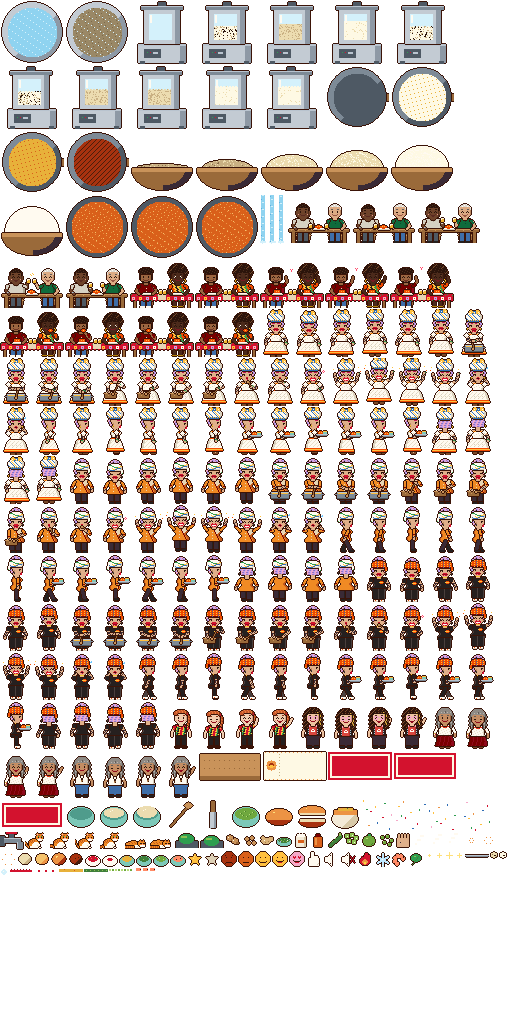
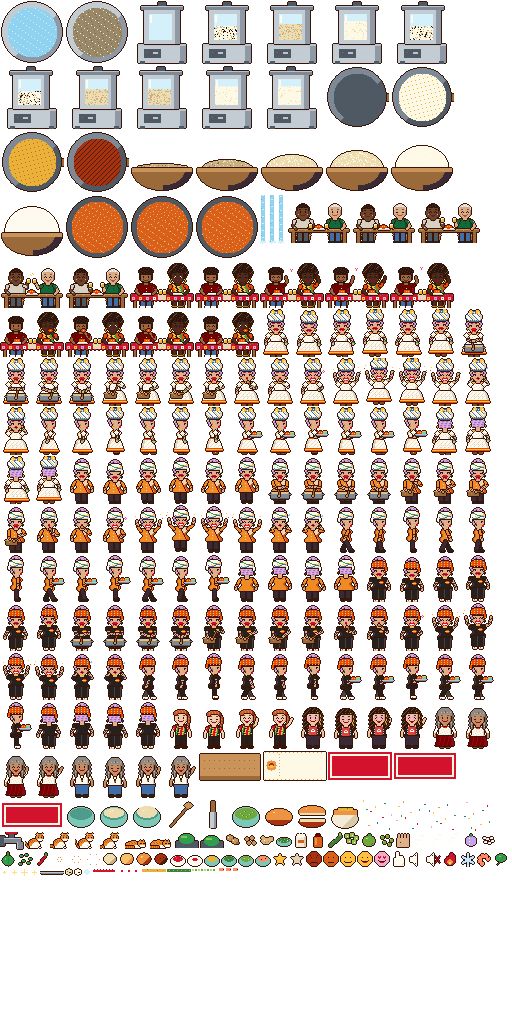
feat(acarabet): 10 etapas e 30 estrelas (temperos e pimenta), colher pra baixo, caruru sem farinha, nomes dos ingredientes, fritura mais fácil e Pôr do Sol dormindo visível

Changed region(s): [[0.0, 0.8125, 1.0, 0.875]]

diff --git a/src/jogo/cenas/etapas1.ts b/src/jogo/cenas/etapas1.ts
@@ -200,9 +200,118 @@ export class Triturar extends Etapa {
   }
 }
 
+// ─── 4. Temperos: picar cebola e pimentão, e fazer a pimenta ────────────────
+const PICAR = [
+  { nome: 'cebola', rotulo: 'CEBOLA' },
+  { nome: 'pimentao', rotulo: 'PIMENTÃO' },
+];
+
+export class Temperos extends Etapa {
+  constructor() {
+    super('Temperos');
+  }
+
+  protected readonly id = 'temperos';
+  protected tempoTotal = 30000;
+  private atual = 0;
+  private cortes = 0;
+  private pimentas = 0;
+  private fase: 'picar' | 'pimenta' = 'picar';
+  private item!: Phaser.GameObjects.Image;
+  private faca!: Phaser.GameObjects.Image;
+  private pote!: Phaser.GameObjects.Image;
+  private legenda!: Phaser.GameObjects.BitmapText;
+  private readonly T = { x: CENTRO_X, y: 186 };
+  private readonly CORTES = 4;
+
+  protected montar() {
+    this.atual = this.cortes = this.pimentas = 0;
+    this.fase = 'picar';
+    this.add.image(this.T.x, this.T.y, 'atlas', 'tabua_0').setScale(2);
+    this.add.image(36, 286, 'atlas', 'tigela_0_0').setScale(1.6);
+    this.add.image(150, 300, 'atlas', 'ing_dende_0').setScale(1.5);
+    this.pote = this.add.image(122, 286, 'atlas', 'pote_pimenta_pouca_0').setScale(2.5);
+    this.item = this.add.image(this.T.x, this.T.y, 'atlas', 'cebola_0').setScale(3);
+    // qualquer toque na tábua é uma facada (toquinhos rápidos no celular não se perdem)
+    this.input.on('pointerdown', (p: Phaser.Input.Pointer) => {
+      if (Math.abs(p.x - this.T.x) < 66 && Math.abs(p.y - this.T.y) < 40 && this.item.visible) this.pica();
+    });
+    this.faca = this.add.image(this.T.x + 16, this.T.y - 44, 'atlas', 'faca_0').setScale(2).setDepth(30).setVisible(false);
+    this.legenda = texto(this, CENTRO_X, 224, 'CEBOLA').setDepth(20);
+  }
+
+  private pica() {
+    if (!this.rodando || this.fase !== 'picar') return;
+    this.cortes++;
+    tocar('corte');
+    this.faca.setVisible(true).setPosition(this.item.x + 10, this.T.y - 44);
+    this.tweens.add({ targets: this.faca, y: this.T.y - 28, duration: 60, yoyo: true });
+    this.tweens.add({ targets: this.item, scale: 3 - this.cortes * 0.35, duration: 60 });
+    if (this.cortes < this.CORTES) return;
+    // picou: vai pra tigela
+    const { nome } = PICAR[this.atual];
+    const pedaco = this.add.image(this.item.x, this.item.y, 'atlas', `${nome}_picada_0`.replace('pimentao_picada', 'pimentao_picado')).setScale(2.5);
+    this.item.setVisible(false);
+    tocar('acerto');
+    this.tweens.add({ targets: pedaco, x: 36, y: 284, scale: 1, duration: 320, onComplete: () => pedaco.destroy() });
+    this.atual++;
+    this.cortes = 0;
+    this.time.delayedCall(360, () => {
+      this.faca.setVisible(false);
+      if (this.atual < PICAR.length) {
+        this.item.setFrame(`${PICAR[this.atual].nome}_0`).setScale(3).setVisible(true);
+        this.legenda.setText(PICAR[this.atual].rotulo);
+      } else {
+        this.comecaPimenta();
+      }
+    });
+  }
+
+  private comecaPimenta() {
+    this.fase = 'pimenta';
+    this.legenda.setText('PIMENTA: JOGUE NO DENDÊ');
+    const lugares = [[46, 170], [78, 196], [104, 168], [132, 198], [92, 182]];
+    lugares.forEach(([x, y], i) => {
+      const p = this.add.image(x, y, 'atlas', 'malagueta_0').setScale(0).setAngle(Phaser.Math.Between(-30, 30)).setInteractive({ useHandCursor: true });
+      this.tweens.add({ targets: p, scale: 2, duration: 180, delay: i * 70 });
+      p.on('pointerdown', () => {
+        if (!this.rodando) return;
+        p.disableInteractive();
+        tocar('pop');
+        this.tweens.add({
+          targets: p, x: this.pote.x, y: this.pote.y - 4, scale: 0.8, duration: 260,
+          onComplete: () => {
+            p.destroy();
+            this.pimentas++;
+            if (this.pimentas === 3) this.pote.setFrame('pote_pimenta_0');
+            if (this.pimentas === lugares.length) {
+              flutua(this, this.pote.x - 20, this.pote.y - 30, 'PIMENTA PRONTA!');
+              this.terminar(this.segundos() <= 13 ? 3 : this.segundos() <= 20 ? 2 : 1);
+            }
+          },
+        });
+      });
+    });
+  }
+
+  protected tempoEsgotado() {
+    this.terminar(this.fase === 'pimenta' ? 2 : 1);
+  }
+
+  protected demonstrar(mao: Phaser.GameObjects.Image) {
+    this.maoEntre(mao, [[this.T.x, this.T.y + 6], [this.T.x, this.T.y]], 200, true);
+  }
+}
+
 // ─── 4. Vatapá (ordem dos ingredientes + mexer sem grudar) ────────────────────
 /** Castanha de caju, amendoim, gengibre, temperos naturais triturados, farinha de trigo e um pouco de dendê. */
 export const ORDEM_VATAPA = ['castanha', 'amendoim', 'gengibre', 'temperos', 'farinha', 'dende'];
+/** O caruru leva os mesmos ingredientes do vatapá, menos a farinha. */
+const INGREDIENTES_CARURU = ORDEM_VATAPA.filter((n) => n !== 'farinha');
+export const NOME_INGREDIENTE: Record<string, string> = {
+  castanha: 'CASTANHA DE CAJU', amendoim: 'AMENDOIM', gengibre: 'GENGIBRE',
+  temperos: 'TEMPEROS NATURAIS', farinha: 'FARINHA DE TRIGO', dende: 'DENDÊ',
+};
 
 export class Vatapa extends Etapa {
   constructor() {
@@ -222,6 +331,7 @@ export class Vatapa extends Etapa {
   private medidor!: Phaser.GameObjects.Graphics;
   private giro!: (p: Phaser.Input.Pointer) => number;
   private marcas: Phaser.GameObjects.Image[] = [];
+  private proximo!: Phaser.GameObjects.BitmapText;
   private readonly C = { x: CENTRO_X, y: 222 };
 
   protected montar() {
@@ -231,6 +341,7 @@ export class Vatapa extends Etapa {
     // receita (ordem) em cima da bancada
     texto(this, 6, 121, 'RECEITA:', { esquerda: true });
     this.marcas = ORDEM_VATAPA.map((n, i) => this.add.image(62 + i * 19, 126, 'atlas', `ing_${n}_0`));
+    this.proximo = texto(this, CENTRO_X, 136, `PRÓXIMO: ${NOME_INGREDIENTE[ORDEM_VATAPA[0]]}`).setDepth(20);
     const lugares = Phaser.Utils.Array.Shuffle([[16, 160], [164, 160], [16, 296], [164, 296], [56, 306], [124, 306]]);
     ORDEM_VATAPA.forEach((n, i) => {
       const [x, y] = lugares[i];
@@ -253,7 +364,10 @@ export class Vatapa extends Etapa {
     }
     s.disableInteractive();
     this.marcas[this.indice].setAlpha(0.35);
+    flutua(this, s.x < 40 ? 50 : s.x > 140 ? 130 : s.x, s.y - 20, NOME_INGREDIENTE[nome]);
     this.indice++;
+    const prox = ORDEM_VATAPA[this.indice];
+    this.proximo.setText(prox ? `PRÓXIMO: ${NOME_INGREDIENTE[prox]}` : 'AGORA MEXE!');
     tocar('pop');
     this.tweens.add({ targets: s, x: this.C.x, y: this.C.y, scale: 1, duration: 260, onComplete: () => s.destroy() });
     this.panela.setFrame('panela_ralo_0');
@@ -356,9 +470,9 @@ export class Caruru extends Etapa {
 
   /** Depois do quiabo: os mesmos ingredientes do vatapá, em qualquer ordem. */
   private ingredientes() {
-    flutua(this, CENTRO_X, 150, 'AGORA OS TEMPEROS!');
-    const lugares = [[22, 150], [158, 150], [22, 236], [62, 236], [22, 292], [66, 292]];
-    ORDEM_VATAPA.forEach((n, i) => {
+    flutua(this, CENTRO_X, 150, 'AGORA OS INGREDIENTES!');
+    const lugares = [[22, 150], [158, 150], [22, 236], [62, 236], [40, 292]];
+    INGREDIENTES_CARURU.forEach((n, i) => {
       const [x, y] = lugares[i];
       const s = this.add.image(x, y, 'atlas', `ing_${n}_0`).setScale(0).setInteractive({ useHandCursor: true }).setDepth(30);
       this.tweens.add({ targets: s, scale: 2, duration: 200, delay: i * 60 });
@@ -366,12 +480,13 @@ export class Caruru extends Etapa {
         if (!this.rodando) return;
         s.disableInteractive();
         tocar('pop');
+        flutua(this, Phaser.Math.Clamp(s.x, 50, 130), s.y - 18, NOME_INGREDIENTE[n]);
         this.tweens.add({
           targets: s, x: this.PANELA.x, y: this.PANELA.y, scale: 0.8, duration: 260,
           onComplete: () => {
             s.destroy();
             this.postos++;
-            if (this.postos === ORDEM_VATAPA.length) this.terminar(this.segundos() <= 16 ? 3 : this.segundos() <= 25 ? 2 : 1);
+            if (this.postos === INGREDIENTES_CARURU.length) this.terminar(this.segundos() <= 16 ? 3 : this.segundos() <= 25 ? 2 : 1);
           },
         });
       });

diff --git a/src/jogo/cenas/etapas2.ts b/src/jogo/cenas/etapas2.ts
@@ -27,7 +27,7 @@ export class Bater extends Etapa {
     this.fofura = 0;
     this.toques = [];
     this.bacia = this.add.image(CENTRO_X - 6, 252, 'atlas', 'bacia_massa_0_0').setScale(2).setOrigin(0.5, 0.75);
-    this.colher = this.add.image(CENTRO_X - 6, 212, 'atlas', 'colher_0').setScale(2).setOrigin(0.2, 0.8).setDepth(5);
+    this.colher = this.add.image(CENTRO_X - 42, 206, 'atlas', 'colher_0').setScale(2).setFlipY(true).setOrigin(0.2, 0.2).setDepth(5);
     this.barra = this.add.graphics();
     this.desenhaBarra();
     this.input.on('pointerdown', (p: Phaser.Input.Pointer) => {
@@ -37,7 +37,7 @@ export class Bater extends Etapa {
       tocar('pop');
       // a colher bate de um lado pro outro, e a massa dá uma sacudidinha
       this.lado = -this.lado;
-      this.tweens.add({ targets: this.colher, angle: this.lado * 28, y: 222, duration: 60, yoyo: true });
+      this.tweens.add({ targets: this.colher, angle: this.lado * 14, y: 216, duration: 60, yoyo: true });
       this.tweens.add({ targets: this.bacia, scaleY: 1.88, scaleX: 2.08, duration: 50, yoyo: true });
       const q = Math.min(QUADROS_MASSA - 1, Math.floor((this.fofura / 100) * QUADROS_MASSA));
       this.bacia.setFrame(`bacia_massa_${q}_0`);
@@ -77,7 +77,7 @@ export class Bater extends Etapa {
 type FaseBolinho = 'cru' | 'dourando' | 'ponto' | 'queimado';
 interface Bolinho { s: Phaser.GameObjects.Image; lado: 1 | 2; t: number; fase: FaseBolinho; brilho?: Phaser.GameObjects.Sprite; saindo?: boolean }
 
-const TEMPOS = { dourando: 2600, ponto: 4300, queimado: 6400 };
+const TEMPOS = { dourando: 2400, ponto: 3800, queimado: 8800 }; // janela larga: dá pra cuidar dos 4 de uma vez
 
 export class Fritar extends Etapa {
   constructor() {

diff --git a/src/jogo/estado.ts b/src/jogo/estado.ts
@@ -19,8 +19,9 @@ export const ETAPAS: InfoEtapa[] = [
   { id: 'lavar', cena: 'Lavar', nome: 'LAVAR O FEIJÃO', instrucao: 'O FEIJÃO-FRADINHO JÁ VEM QUEBRADO. ESFREGUE NA ÁGUA PRA DEIXAR ELE LIMPINHO!' },
   { id: 'triturar', cena: 'Triturar', nome: 'TRITURAR', instrucao: 'TOQUE NO BOTÃO VERDE PRA LIGAR O MULTIPROCESSADOR. TOQUE DE NOVO PRA PARAR QUANDO O PONTEIRO ESTIVER NA FAIXA VERDE!' },
   { id: 'bater', cena: 'Bater', nome: 'BATER A MASSA', instrucao: 'TOQUE RAPIDINHO NA TELA PRA BATER. A MASSA VAI CRESCENDO ATÉ FICAR BRANQUINHA E LEVINHA!' },
+  { id: 'temperos', cena: 'Temperos', nome: 'TEMPEROS', instrucao: 'TOQUE NA CEBOLA E NO PIMENTÃO PRA PICAR. DEPOIS JOGUE AS PIMENTAS NO DENDÊ PRA FAZER A PIMENTA!' },
   { id: 'vatapa', cena: 'Vatapa', nome: 'VATAPÁ', instrucao: 'TOQUE NOS INGREDIENTES NA ORDEM DA RECEITA. DEPOIS MEXA EM CÍRCULOS ATÉ DAR O PONTO.' },
-  { id: 'caruru', cena: 'Caruru', nome: 'CARURU', instrucao: 'ARRASTE O QUIABO PRA TÁBUA. DEPOIS TOQUE NOS INGREDIENTES DO VATAPÁ PRA IR PRA PANELA.' },
+  { id: 'caruru', cena: 'Caruru', nome: 'CARURU', instrucao: 'ARRASTE O QUIABO PRA TÁBUA. DEPOIS TOQUE NOS INGREDIENTES PRA IREM PRA PANELA.' },
   { id: 'salada', cena: 'Salada', nome: 'SALADA', instrucao: 'TOQUE PRA PICAR QUANDO A FACA ESTIVER EM CIMA DO TOMATE VERDE. CUIDADO COM O DEDO!' },
   { id: 'fritar', cena: 'Fritar', nome: 'FRITAR', instrucao: 'TOQUE NA MASSA PRA JOGAR OS 4 BOLINHOS NO DENDÊ (OU NO TACHO, UM POR UM). DOUROU E BRILHOU? TOQUE PRA VIRAR. DOUROU DE NOVO? TOQUE PRA TIRAR.' },
   { id: 'montar', cena: 'Montar', nome: 'MONTAR', instrucao: 'ARRASTE NA ORDEM: PIMENTA NO BOLINHO, VATAPÁ, CARURU, SALADA E CAMARÃO POR CIMA. OLHE O PEDIDO!' },

diff --git a/src/jogo/main.ts b/src/jogo/main.ts
@@ -6,7 +6,7 @@ import Phaser from 'phaser';
 import { Carregando } from './cenas/Carregando';
 import { Titulo } from './cenas/Titulo';
 import { Pedido } from './cenas/Pedido';
-import { Lavar, Triturar, Vatapa, Caruru, Salada } from './cenas/etapas1';
+import { Lavar, Triturar, Temperos, Vatapa, Caruru, Salada } from './cenas/etapas1';
 import { Bater, Fritar, Montar } from './cenas/etapas2';
 import { Servir } from './cenas/Servir';
 import { Premio, Cupom } from './cenas/Premio';
@@ -47,7 +47,7 @@ export function iniciarJogo(raiz: HTMLElement, cfg: Partial<Config> = {}) {
     input: { activePointers: 1 },
     render: { preserveDrawingBuffer: computador },
     scale: { mode: Phaser.Scale.NONE, zoom: zoom() },
-    scene: [Carregando, Titulo, Pedido, Lavar, Triturar, Bater, Vatapa, Caruru, Salada, Fritar, Montar, Servir, Premio, Cupom],
+    scene: [Carregando, Titulo, Pedido, Lavar, Triturar, Bater, Temperos, Vatapa, Caruru, Salada, Fritar, Montar, Servir, Premio, Cupom],
   });
 
   let nitido: HTMLCanvasElement | null = null;

diff --git a/src/jogo/salao.ts b/src/jogo/salao.ts
@@ -43,7 +43,9 @@ export function montaSalao(cena: Phaser.Scene, { easterEggs = true } = {}): Sala
   npc(pos.gemea_mae.x, pos.gemea_mae.y, 'npc_gemea_mae_parada', 'npc_gemea_mae_acenando');
   npc(pos.gemea_tia.x, pos.gemea_tia.y, 'npc_gemea_tia_parada', 'npc_gemea_tia_acenando');
   npc(pos.valentina.x, pos.valentina.y, 'npc_valentina_parada', 'npc_valentina_acenando');
-  const g = Phaser.Utils.Array.GetRandom(pos.por_do_sol);
+  // sorteia o cantinho do Pôr do Sol (em desenvolvimento dá pra forçar: ?gato=dormindo ou ?gato=sentado)
+  const forcar = import.meta.env.DEV ? new URLSearchParams(location.search).get('gato') : null;
+  const g = pos.por_do_sol.find((p) => forcar && p.sprite === `gato_${forcar}`) ?? Phaser.Utils.Array.GetRandom(pos.por_do_sol);
   npc(g.x, g.y, g.sprite, g.sprite === 'gato_sentado' ? 'gato_sentado' : null, 17);
   const casal = cena.add.sprite(pos.casal.x, pos.casal.y, 'atlas').setOrigin(0, 0)
     .setDepth(profundidade(pos.casal.y)).play('cliente_casal_esperando');

diff --git a/tools/sprites/objetos.py b/tools/sprites/objetos.py
@@ -243,6 +243,41 @@ def tomate(cubos=False):
     return [faz(16, 16, [p])]
 
 
+def cebola(picada=False):
+    p = Parte()
+    if picada:
+        for (x, y) in ((4, 9), (8, 10), (11, 8), (6, 6), (10, 5), (3, 5)):
+            p.ret(x, y, x + 2, y + 1, 'massa_luz')
+            p.d(x, y, 'cabelo_lilas')
+    else:
+        p.elipse(8, 9, 5.5, 5, 'cabelo_lilas')
+        p.ret(7, 2, 8, 4, 'fita')
+        for y in range(6, 13, 3):
+            p.d(6, y, 'massa_luz')
+    return [faz(16, 16, [p])]
+
+
+def pimentao(picado=False):
+    p = Parte()
+    if picado:
+        for (x, y) in ((3, 4), (8, 3), (12, 7), (5, 9), (10, 11), (2, 12)):
+            p.ret(x, y, x + 2, y + 1, 'fita'); p.d(x, y, 'quiabo_luz')
+    else:
+        p.elipse(8, 9.5, 5.5, 5, 'fita')
+        p.linha(8, 5, 8, 14, 'quiabo', 1)  # gomos
+        p.d(5, 7, 'quiabo_luz'); p.d(5, 8, 'quiabo_luz')
+        p.ret(7, 1, 8, 4, 'quiabo')  # cabinho
+    return [faz(16, 16, [p])]
+
+
+def malagueta():
+    p = Parte()
+    p.linha(4, 12, 10, 5, 'batom', 2)
+    p.d(10, 4, 'batom'); p.d(5, 10, 'tomate_luz')
+    p.ret(11, 2, 12, 4, 'fita')
+    return [faz(16, 16, [p])]
+
+
 def mao():
     """Dedos da Bia segurando (na tábua), pra não cortar."""
     p = Parte()
@@ -623,6 +658,8 @@ ITENS = {
     'fumaca': fumaca,
     **{f'bacia_massa_{n}': (lambda n=n: bacia_massa(n)) for n in range(N_MASSA)},
     'torneira': torneira, 'jato_agua': jato_agua,
+    'cebola': lambda: cebola(False), 'cebola_picada': lambda: cebola(True),
+    'pimentao': lambda: pimentao(False), 'pimentao_picado': lambda: pimentao(True), 'malagueta': malagueta,
     'tacho': tacho, 'respingo': respingo,
     **{f'acaraje_{e}': (lambda e=e: acaraje_fritando(e)) for e in ('cru', 'dourando', 'ponto', 'queimado')},
     'acaraje_fechado': lambda: acaraje_lado('fechado'), 'acaraje_aberto': lambda: acaraje_lado('aberto'),

diff --git a/tools/sprites/cenario.py b/tools/sprites/cenario.py
@@ -349,7 +349,7 @@ POSICOES = {
     'valentina': {'x': 146, 'y': 150, 'sprite': 'npc_valentina'},
     'por_do_sol': [  # sempre perto da Valentina; sorteia um dos dois cantinhos por partida
         {'x': 150, 'y': 184, 'sprite': 'gato_sentado', 'onde': 'aos pés da Valentina'},
-        {'x': 142, 'y': 161, 'sprite': 'gato_dormindo', 'onde': 'no banquinho da salinha, atrás da Valentina'},
+        {'x': 152, 'y': 181, 'sprite': 'gato_dormindo', 'onde': 'dormindo aos pés da Valentina (na frente dela, pra aparecer)'},
     ],
     # Caminhos da Bia (posição do sprite 32×48). 'camada': atrás do balcão ou no salão (ordem pelo y).
     'pontos': {

diff --git a/docs/ACARABET-TECNICO.md b/docs/ACARABET-TECNICO.md
@@ -9,7 +9,7 @@
 ## 1. Resumo do jogo (do briefing de arte)
 
 - Jogo em **pixel art**, tela **em pé** (formato story), jogado com toque ou clique.
-- A Bia faz um acarajé do começo ao fim em **9 minijogos** curtos (20–40 s cada): lavar o feijão, triturar, bater a massa, vatapá, caruru, salada, **fritar**, **montar** e **servir** (processos definidos com a equipe em nov/2026, ver seção 10).
+- A Bia faz um acarajé do começo ao fim em **10 minijogos** curtos (20–40 s cada), até **30 estrelas**: lavar o feijão, triturar, bater a massa, temperos, vatapá, caruru, salada, **fritar**, **montar** e **servir** (processos definidos com a equipe em nov/2026, ver seção 10).
 - Cada etapa dá de 1 a 3 estrelas → enche o **medidor de satisfação** do cliente.
 - Não tem sorte: quem completa e satisfaz o cliente **sempre ganha** o cupom.
 - Final: bilhete de aposta de brincadeira ("chance de ganhar: 100%") + cupom + **imagem 1080 × 1920 para os Stories**.
@@ -36,7 +36,7 @@ Isso exige identificar o cliente → ver seção 5.
 | Renderização | **HTML5 Canvas 2D** | Funciona em todos os navegadores modernos; perfeito para pixel art. WebGL não é necessário. |
 | Motor | **Phaser 3** (recomendado) | Já resolve escala, toque/mouse, cenas, animação de sprites, áudio no iOS e carregamento. Carregado **só na página `/acarabet`**, sem pesar o resto do site. |
 | Alternativa | JavaScript puro + Canvas | Mais leve, mas exige refazer o que o Phaser já entrega (áudio no iOS, escala, input). Só vale se o jogo ficar bem menor que o previsto. |
-| Linguagem | TypeScript | Evita erros nos 9 minijogos e no fluxo do cupom. |
+| Linguagem | TypeScript | Evita erros nos 10 minijogos e no fluxo do cupom. |
 
 ### 3.2 Tela e pixel art
 - Mundo do jogo com **180 × 320 px**, ampliado sempre por **número inteiro** (×2, ×3, ×4, ×6…) para não borrar.
@@ -184,7 +184,7 @@ Com isso dá para ver em que etapa as pessoas desistem e quantos cupons viram vi
 | Página do jogo | `src/pages/acarabet/index.astro` | Apresentação, "como funciona" e **regulamento visível**. O jogo abre em tela cheia por cima da página (`/acarabet#jogar`); botão ✕ ou "voltar" do celular fecham. |
 | Chamada na Home | `src/components/ChamadaAcarabet.astro` | Faixa vinho com a Bia comemorando, antes de Eventos. Link "Acarabet" também no menu. |
 | Motor | Phaser **3.90.0** | Carregado só quando a pessoa toca em **Jogar** (import dinâmico): a página em si continua leve. |
-| Código do jogo | `src/jogo/` | `main.ts` (liga o Phaser), `estado.ts` (etapas, estrelas, satisfação, medição), `cenas/` (título, pedido, 8 minijogos de preparo, servir, prêmio e cupom), `cupom.ts` (formulário, compartilhar, plano C do Instagram), `som.ts`. |
+| Código do jogo | `src/jogo/` | `main.ts` (liga o Phaser), `estado.ts` (etapas, estrelas, satisfação, medição), `cenas/` (título, pedido, 9 minijogos de preparo, servir, prêmio e cupom), `cupom.ts` (formulário, compartilhar, plano C do Instagram), `som.ts`. |
 | Close dos preparos | `cenas/Etapa.ts` | Nas etapas de preparo a câmera chega perto: parede de chita de girassol, a **Bia ampliada 2× da cintura pra cima** reagindo (mexendo, batendo, comemorando, preocupada) e a bancada de madeira com os objetos. |
 | Arte | `tools/sprites/*.py` → `public/jogo/` | Tudo gerado por script: `atlas.png` + `atlas.json` (todas as animações e objetos numa imagem só, ~40 KB), fontes em pixel (`fonte_clara`, `fonte_escura`), cenário do salão e do close. Para refazer: `python3 tools/sprites/atlas.py` (e `cenario.py`, `fonte.py`). |
 | Escala sem borrar | `main.ts` | O fator de ampliação é **inteiro em pixels do aparelho** (ex.: ×1,5 em CSS num celular 2× = 3 pixels reais por pixel do jogo). Sobra de tela vira moldura listrada. Celular deitado mostra "vire o celular". **No computador** (sem tela de toque) o jogo ocupa a altura toda: o Phaser fica invisível no tamanho exato (pros cliques) e uma cópia nítida em N× é reduzida suavemente por cima, então os pixels não ficam de tamanhos diferentes. |
@@ -196,19 +196,20 @@ Com isso dá para ver em que etapa as pessoas desistem e quantos cupons viram vi
 
 **Regras de jogo implementadas**
 - Cada etapa dá 1 a 3 estrelas; refazer guarda sempre a melhor nota.
-- O casal fica satisfeito com **2/3 das estrelas** (18 de 27). Se não ficar, a Bia refaz as etapas mais fracas e serve de novo; na terceira rodada o casal aceita de qualquer jeito (ninguém sai sem cupom).
+- O casal fica satisfeito com **2/3 das estrelas** (20 de 30). Se não ficar, a Bia refaz as etapas mais fracas e serve de novo; na terceira rodada o casal aceita de qualquer jeito (ninguém sai sem cupom).
 - O pedido é sorteado a cada partida e aparece no balão do casal e na faixa da montagem: **com pimenta** (ícone de foguinho) ou **pouca pimenta** (ícone de friozinho), e **tradicional** (com camarão, ícone de camarão) ou **vegetariano** (sem camarão, ícone de folhinha).
 
 **Processos de cada etapa (definidos com a equipe)**
 1. **Lavar o feijão:** feijão-fradinho (branco com o olhinho preto), que já vem quebrado da loja; o processo é só lavar, com a torneira aberta caindo água na bacia.
 2. **Triturar:** no multiprocessador industrial, com um botão só. Três levas: um toque liga, e a pessoa tem que parar na hora certa (ponteiro na faixa verde).
 3. **Bater a massa:** toquinhos na tela simulam a batida; a massa vai crescendo na bacia até ficar bem branquinha e levinha.
-4. **Vatapá:** castanha de caju, amendoim, gengibre, temperos naturais triturados, farinha de trigo e um pouco de dendê, nessa ordem; depois mexer até dar o ponto.
-5. **Caruru:** cortar o quiabo e juntar os mesmos ingredientes do vatapá.
-6. **Salada:** só tomate verde picado.
-7. **Fritar** no dendê: um toque na massa joga os 4 bolinhos de uma vez no tacho (ou um por um, tocando no tacho); virar e tirar no ponto.
-8. **Montar, nesta ordem:** pimenta no bolinho, vatapá, caruru, salada e camarão por cima (sem camarão no vegetariano). Pimenta errada, camarão no vegetariano ou fora de ordem contam como erro.
-9. **Servir** na mesa do casal.
+4. **Temperos:** picar cebola e pimentão (toques na faca) e fazer a pimenta, jogando as pimentas no dendê.
+5. **Vatapá:** castanha de caju, amendoim, gengibre, temperos naturais triturados, farinha de trigo e um pouco de dendê, nessa ordem; depois mexer até dar o ponto. O nome de cada ingrediente aparece na tela ("PRÓXIMO: …" e ao tocar).
+6. **Caruru:** cortar o quiabo e juntar os ingredientes do vatapá, **menos a farinha**.
+7. **Salada:** só tomate verde picado.
+8. **Fritar** no dendê: um toque na massa joga os 4 bolinhos de uma vez no tacho (ou um por um, tocando no tacho); virar e tirar no ponto. A janela do ponto é larga (5 s) pra dar conta dos 4 sem queimar.
+9. **Montar, nesta ordem:** pimenta no bolinho, vatapá, caruru, salada e camarão por cima (sem camarão no vegetariano). Pimenta errada, camarão no vegetariano ou fora de ordem contam como erro.
+10. **Servir** na mesa do casal.
 - Tocar nos personagens do salão (Eliana, gêmeas, Valentina, tios, Pôr do Sol) faz eles acenarem/brindarem: são os easter eggs.
 
-**Atalho de teste (só em desenvolvimento):** `/acarabet?cena=Fritar#jogar` abre direto numa cena (Titulo, Pedido, Lavar, Triturar, Bater, Vatapa, Caruru, Salada, Fritar, Montar, Servir, Premio, Cupom).
+**Atalho de teste (só em desenvolvimento):** `/acarabet?cena=Fritar#jogar` abre direto numa cena (Titulo, Pedido, Lavar, Triturar, Bater, Temperos, Vatapa, Caruru, Salada, Fritar, Montar, Servir, Premio, Cupom).

diff --git a/docs/BRIEFING.md b/docs/BRIEFING.md
@@ -140,7 +140,7 @@ Campos sugeridos:
 > 📄 Briefing de arte (mecânica, etapas, personagens, paleta): https://claude.ai/artifact/7z2pXWuYi4hDxWdmSoq6Ap
 > 🛠 Especificação técnica: [ACARABET-TECNICO.md](ACARABET-TECNICO.md)
 
-- Jogo em **pixel art**, tela em pé: a Bia faz um acarajé do começo ao fim em 9 minijogos rápidos.
+- Jogo em **pixel art**, tela em pé: a Bia faz um acarajé do começo ao fim em 10 minijogos rápidos.
 - Não tem sorte: quem completa e satisfaz o cliente **sempre ganha** o cupom ("a bet em que todo mundo ganha").
 - Ao final, gera uma **imagem 1080 × 1920 para os Stories**, com o código do cupom.
 - Regras e termos da promoção visíveis na página.
@@ -241,7 +241,7 @@ Landing page de **pré-lançamento** para captar potenciais alunos.
 
 ## 8. Perguntas em aberto
 
-1. ~~**Acarabet:** qual é o jogo?~~ → Definido no briefing de arte: pixel art, 9 minijogos da receita do acarajé.
+1. ~~**Acarabet:** qual é o jogo?~~ → Definido no briefing de arte: pixel art, 10 minijogos da receita do acarajé.
 2. ~~**Acarabet:** qual o desconto e onde ele é usado?~~ → Validação presencial; proposta de 10% no local (aguardando aprovação).
 3. **Eventos:** há cardápios/pacotes de eventos e faixas de preço para mostrar no site?
 4. **Eventos no local do cliente:** existe limite de distância ou número mínimo de convidados?
